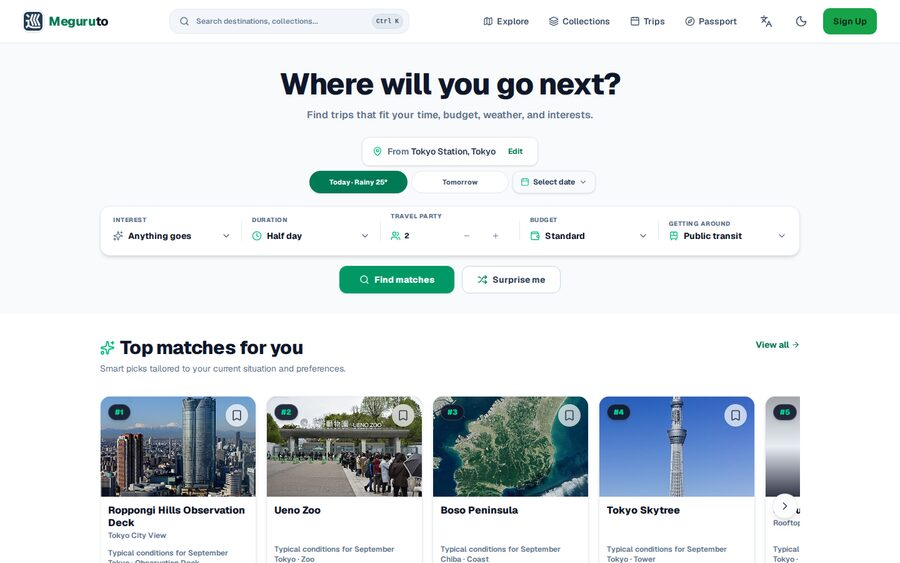
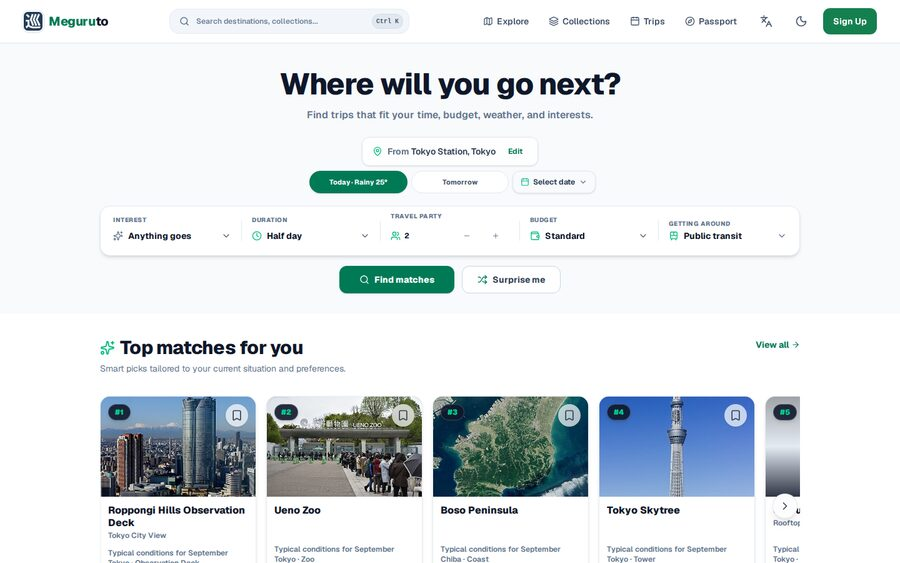
fix(ui): white-on-emerald primary buttons (token fix, AA-safe)

Changed region(s): [[0.3733, 0.4529, 0.5289, 0.5435], [0.9022, 0.0, 0.9956, 0.0604]]

diff --git a/src/features/home/components/HomePlanner.tsx b/src/features/home/components/HomePlanner.tsx
@@ -741,7 +741,7 @@ export const HomePlanner: React.FC<HomePlannerProps> = ({
         <div className="mt-4 flex items-center justify-center gap-3 w-full">
           <button
             type="button"
-            className="inline-flex h-11 items-center justify-center gap-2 rounded-xl bg-emerald-600 px-8 text-sm font-extrabold text-white shadow-sm transition-colors hover:bg-emerald-700 focus-visible:outline-2 focus-visible:outline-offset-2 focus-visible:outline-emerald-600 dark:bg-emerald-600 dark:text-white dark:hover:bg-emerald-700"
+            className="inline-flex h-11 items-center justify-center gap-2 rounded-xl bg-emerald-700 px-8 text-sm font-extrabold text-white shadow-sm transition-colors hover:bg-emerald-800 focus-visible:outline-2 focus-visible:outline-offset-2 focus-visible:outline-emerald-700 dark:bg-emerald-700 dark:text-white dark:hover:bg-emerald-800"
             onClick={onApplyMatches}
           >
             <Search className="w-4 h-4" />
@@ -871,7 +871,7 @@ export const HomePlanner: React.FC<HomePlannerProps> = ({
             <button
               type="button"
               data-testid="home-planner-cta"
-              className="home-planner-cta flex h-12 w-full items-center justify-center rounded-xl bg-emerald-600 text-sm font-extrabold text-white shadow-sm transition-colors hover:bg-emerald-700 focus-visible:outline-2 focus-visible:outline-offset-2 focus-visible:outline-emerald-600 dark:bg-emerald-600 dark:text-white dark:hover:bg-emerald-700"
+              className="home-planner-cta flex h-12 w-full items-center justify-center rounded-xl bg-emerald-700 text-sm font-extrabold text-white shadow-sm transition-colors hover:bg-emerald-800 focus-visible:outline-2 focus-visible:outline-offset-2 focus-visible:outline-emerald-700 dark:bg-emerald-700 dark:text-white dark:hover:bg-emerald-800"
               onClick={onApplyMatches}
             >
               <Search className="mr-2 h-4 w-4" />

diff --git a/src/index.css b/src/index.css
@@ -12,11 +12,11 @@
     --popover: 0 0% 100%;
     --popover-foreground: 222.2 84% 4.9%;
 
-    --primary: 142.1 76.2% 36.3%; /* Emerald 600 (brand) */
-    /* KAI-80: emerald-500/white text fails contrast (2.9:1). Dark-green
-     * foreground on the emerald fill passes (~6:1) and matches the dark
-     * theme's existing primary treatment. */
-    --primary-foreground: 144.9 80.4% 10%;
+    --primary: 152.4 71.4% 29.2%; /* Emerald 700 (brand) */
+    /* White on emerald-700 passes WCAG AA (~5:1). Supersedes the KAI-80
+     * dark-foreground compromise (dark text on emerald-500/600 looked
+     * like black-on-green on every primary button). */
+    --primary-foreground: 0 0% 100%;
 
     --secondary: 210 40% 96.1%;
     --secondary-foreground: 222.2 47.4% 11.2%;
@@ -64,8 +64,8 @@
     --popover: 222.2 84% 4.9%;
     --popover-foreground: 210 40% 98%;
 
-    --primary: 142.1 70.6% 45.3%; /* Emerald 500 */
-    --primary-foreground: 144.9 80.4% 10%;
+    --primary: 152.4 71.4% 29.2%; /* Emerald 700 (brand, matches light) */
+    --primary-foreground: 0 0% 100%;
 
     --secondary: 217.2 32.6% 17.5%;
     --secondary-foreground: 210 40% 98%;
